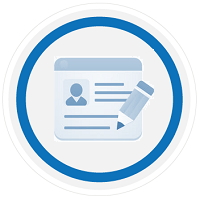
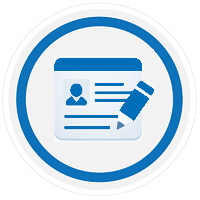
Cambiar contraseña alumno

diff --git a/controllers/miCuenta.php b/controllers/miCuenta.php
@@ -1,0 +1,60 @@
+<?php
+
+class MiCuenta extends controller{
+
+	function __construct(){
+		parent::__construct();
+		$this->view->mensajeError = "";
+		$this->view->mensajeExito = "";
+	}
+
+	function renderVista(){
+		$vistaCargar = 'micuenta/index';
+
+		$this->verificarSesionAlumno($vistaCargar);
+	}
+
+	function actualizarPassword($param = null){
+
+		$correo = $param[0];
+		$passwordActual = $_POST['passwordActual'];
+		$passwordNueva1 = $_POST['passwordNueva1'];
+		$passwordNueva2 = $_POST['passwordNueva2'];
+
+		//verificar que la contraseña actual esta bien
+		if($this->model->verificarPasswordActual(['correo' => $correo,
+												  'passwordActual' => $passwordActual]) == 1){
+
+			if($passwordNueva1 == $passwordNueva2){
+
+				//obtenemos el id del alumno a partir de su correo
+				$idAlumno = $this->model->getIdAlumno($correo);
+
+				//actualizar la contraseña
+				if($this->model->updatePassword(['password' => $passwordNueva1,
+											  'idAlumno' => $idAlumno])){
+
+					$this->view->mensajeExito = "Contraseña actualizada correctamente";
+
+				}
+
+
+			}else{
+				$this->view->mensajeError = "La nueva contraseña debe ser igual en los dos campos";
+			}
+
+		}else{
+			$this->view->mensajeError = "Contraseña actual incorrecta";
+		}
+
+		
+
+
+		$this->renderVista();
+	}
+
+
+
+}
+
+?>

diff --git a/views/micuenta/index.php b/views/micuenta/index.php
@@ -1,0 +1,62 @@
+<?php
+	
+	include_once 'models/infocuenta.php';	
+	$infoCuenta = $_SESSION['infoCuenta'];
+	$infoCuenta = unserialize($infoCuenta);
+
+?>
+<!DOCTYPE html>
+<html>
+<head>
+	<title>Mi cuenta</title>
+</head>
+<body>
+
+	<?php require 'views/header.php' ?>
+
+	<div class="opciones">
+
+		<div class="panel">
+
+			<h1>Mi cuenta</h1>
+
+			<form method="POST" action="<?php echo constant('URL') . 'micuenta/actualizarPassword/'. $infoCuenta->correo ?>">
+
+				<label>Correo :</label>
+				<label><?php echo $infoCuenta->correo ?></label><br>
+
+				<label>Ingrese su contraseña actual: </label>
+				<input type="text" name="passwordActual"><br>
+
+				<label>Ingrese su nueva contraseña: </label>
+				<input type="text" name="passwordNueva1"><br>
+
+				<label>Repita su nueva contraseña: </label>
+				<input type="text" name="passwordNueva2">
+
+				<?php if(!empty($this->mensajeError)){ ?>
+
+					<div class="error"><?php echo $this->mensajeError; ?></div>
+						
+				<?php }?>
+
+				<?php if(!empty($this->mensajeExito)){ ?>
+
+					<div class="error exito"><?php echo $this->mensajeExito; ?></div>
+						
+				<?php }?>
+
+				<input type="submit" class="btn-registrar" value="Actualizar">
+
+			</form>
+
+
+			
+		</div>
+		
+	</div>
+
+	<?php require 'views/sidebar.php'?>
+
+</body>
+</html>

diff --git a/models/miCuentamodel.php b/models/miCuentamodel.php
@@ -1,0 +1,64 @@
+<?php
+
+class MiCuentaModel extends Model{
+
+	function __construct(){
+		parent::__construct();
+	}
+
+	function verificarPasswordActual($datos){
+
+		try{
+
+			$query = $this->db->connect()->prepare('SELECT COUNT(correo) FROM correos WHERE correo=:correo AND password=:password');
+
+			$query->execute(['correo' => $datos['correo'],
+							 'password' => $datos['passwordActual']]);
+
+			return $query->fetch()[0];
+
+		}catch(PDOException $e){
+			return false;
+		}
+	}
+
+	function getIdAlumno($correo){
+
+		try{
+
+			$query = $this->db->connect()->prepare('SELECT ALU.idAlumno 
+													FROM alumnos as ALU
+													INNER JOIN correos AS CORR ON CORR.idAlumno=ALU.idAlumno
+													WHERE correo=:correo');
+
+			$query->execute(['correo' => $correo]);
+
+			return $query->fetch()[0];
+
+		}catch(PDOException $e){
+			return false;
+		}
+
+	}
+
+
+	function updatePassword($datos){
+
+		try{
+
+			$query = $this->db->connect()->prepare('UPDATE correos SET password=:password WHERE idAlumno=:idAlumno');
+
+			$query->execute(['password' => $datos['password'],
+							 'idAlumno' => $datos['idAlumno']]);
+
+			return true;
+
+		}catch(PDOException $e){
+			return false;
+		}
+
+	}
+
+}
+
+?>

diff --git a/views/mainalumno/index.php b/views/mainalumno/index.php
@@ -34,6 +34,12 @@
 
 					<a href="<?php echo constant('URL') . 'consultaCalificaciones/verCalificaciones/'?>"><input type="button" name="" value="Mis calificaciones"></a>
 				</div>
+
+				<div class="opcion">
+					<img src="<?php echo constant('URL') ?>public/img/modificarCorreo.png">
+
+					<a href="<?php echo constant('URL') . 'micuenta'?>"><input type="button" name="" value="Mi Cuenta"></a>
+				</div>
 				
 			</div>
 			
